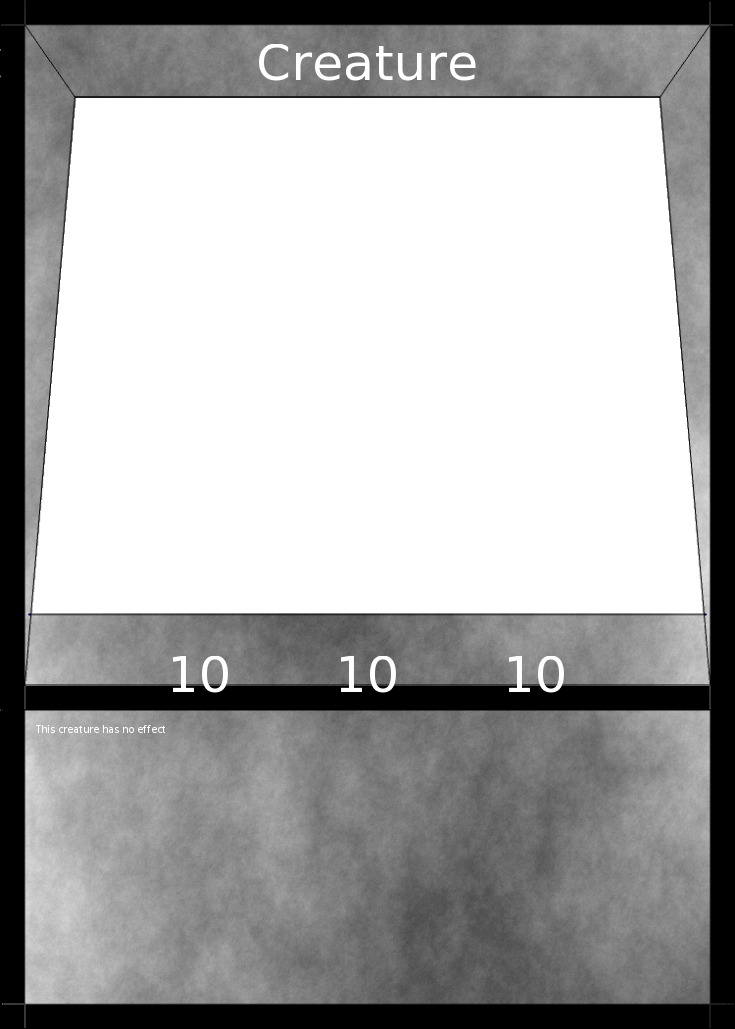
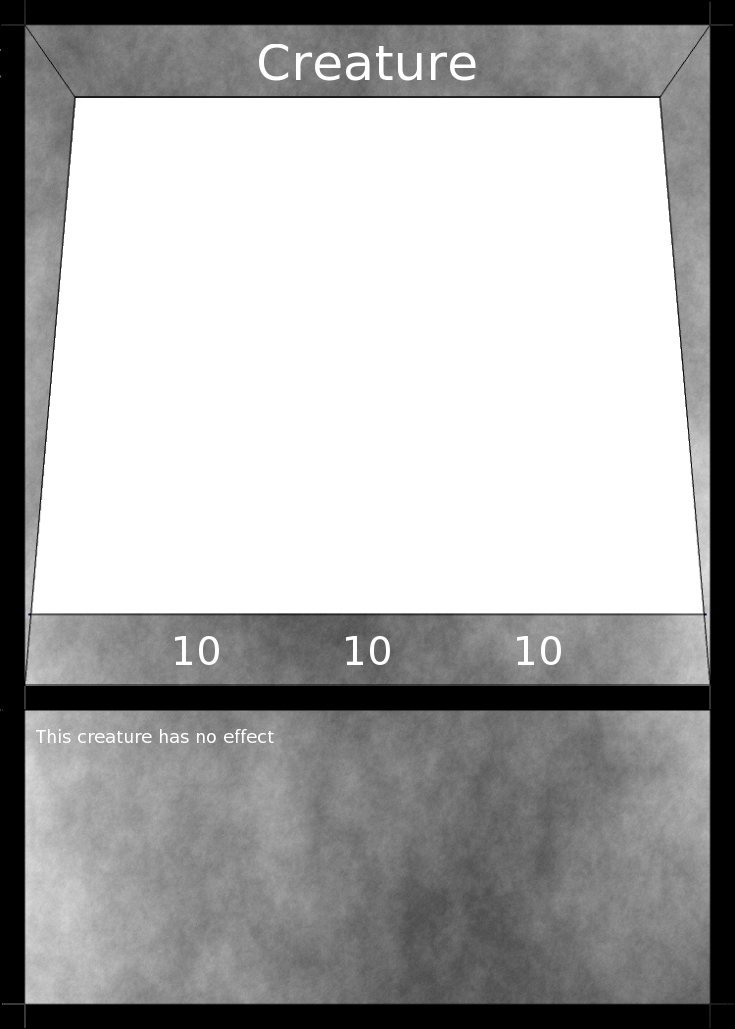
Fixed problems with attack, defense, and health printing in the wrong spot and changed sizes of effect and stats fonts. Limit does not print will decide where to put it in later iterations/

diff --git a/CardMaker.py b/CardMaker.py
@@ -28,12 +28,11 @@ EFF_Y = 720
 
 #Where the attack, defense, and health should be printed in the Y direction
 STARTSTAT_Y = 615
-ENDSTAT_Y = 685
 
 #Size of the different texts that are to be added
 FONTSIZE_NAME = 50
-FONTSIZE_EFFECT = 10
-FONTSIZE_STATS = 25
+FONTSIZE_EFFECT = 18
+FONTSIZE_STATS = 40
 
 #Generic Card Class
 class Card(object):
@@ -90,6 +89,8 @@ class Card(object):
 #Class for Creature Cards
 class CreatureCard(Card):
 
+	statFont = ImageFont.truetype(FONT_PATH, FONTSIZE_STATS)
+
 	#Includes same characteristics as a regular card but more
 	def __init__(self, name, effect, cclass, pic, attack, defense, health, limit):
 		super(CreatureCard, self).__init__(name, effect, cclass, pic)
@@ -101,25 +102,25 @@ class CreatureCard(Card):
 	def addAttackToCard(self):
 		defCard = Image.open(self.name + '.png')
 		draw = ImageDraw.Draw(defCard)
-		w, h = draw.textsize(self.attack, font = self.nameFont)
+		w, h = draw.textsize(self.attack, font = self.statFont)
 
-		draw.text(((WIDTH-w)/4, (ENDSTAT_Y+STARTSTAT_Y-h)/2), self.attack, (255, 255, 255), self.nameFont)
+		draw.text(((WIDTH-w)/4, STARTSTAT_Y), self.attack, (255, 255, 255), font = self.statFont)
 		defCard.save(self.name + '.png')
 
 	def addDefenseToCard(self):
 		defCard = Image.open(self.name + '.png')
 		draw = ImageDraw.Draw(defCard)
-		w, h = draw.textsize(self.defense, font = self.nameFont)
+		w, h = draw.textsize(self.defense, font = self.statFont)
 
-		draw.text(((WIDTH-w)/2, (ENDSTAT_Y+STARTSTAT_Y-h)/2), self.defense, (255, 255, 255), self.nameFont)
+		draw.text(((WIDTH-w)/2, STARTSTAT_Y), self.defense, (255, 255, 255), font = self.statFont)
 		defCard.save(self.name + '.png')
 
 	def addHealthToCard(self):
 		defCard = Image.open(self.name + '.png')
 		draw = ImageDraw.Draw(defCard)
-		w, h = draw.textsize(self.health, font = self.nameFont)
+		w, h = draw.textsize(self.health, font = self.statFont)
 
-		draw.text(((WIDTH-w)*3/4, (ENDSTAT_Y+STARTSTAT_Y-h)/2), self.health, (255, 255, 255), self.nameFont)
+		draw.text(((WIDTH-w)*3/4, STARTSTAT_Y), self.health, (255, 255, 255), font = self.statFont)
 		defCard.save(self.name + '.png')
 
 	def generateCreatureCard(self):
